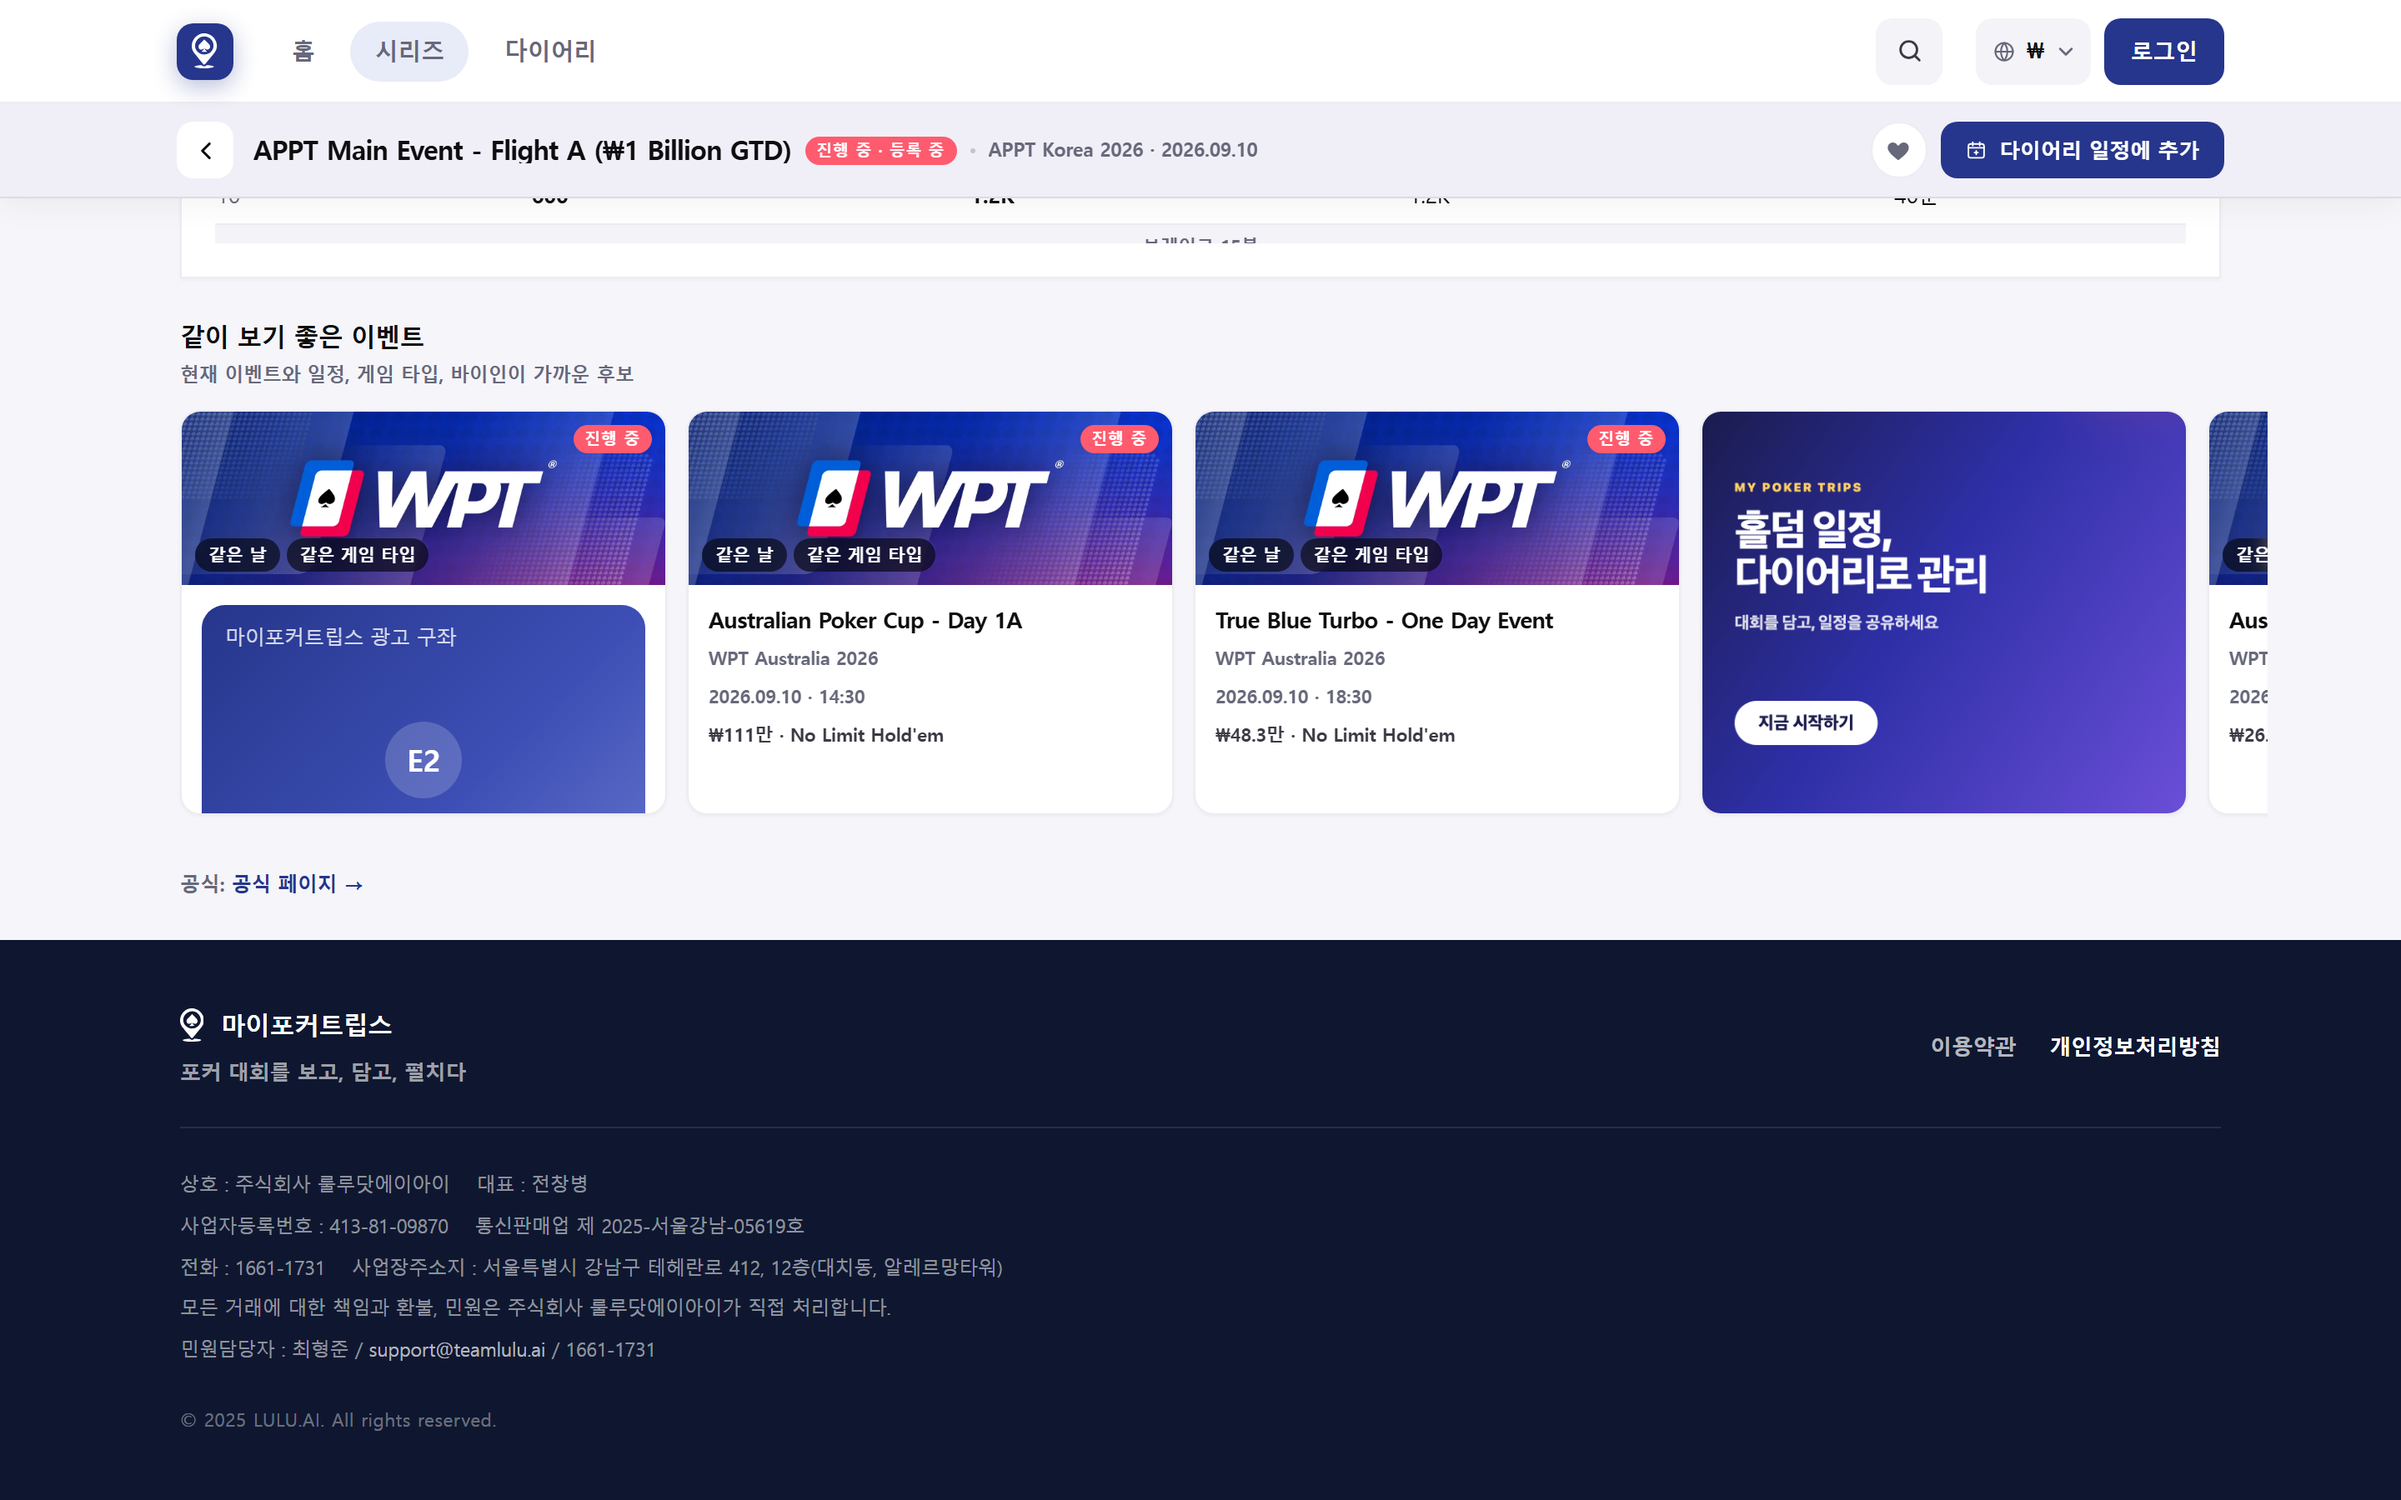
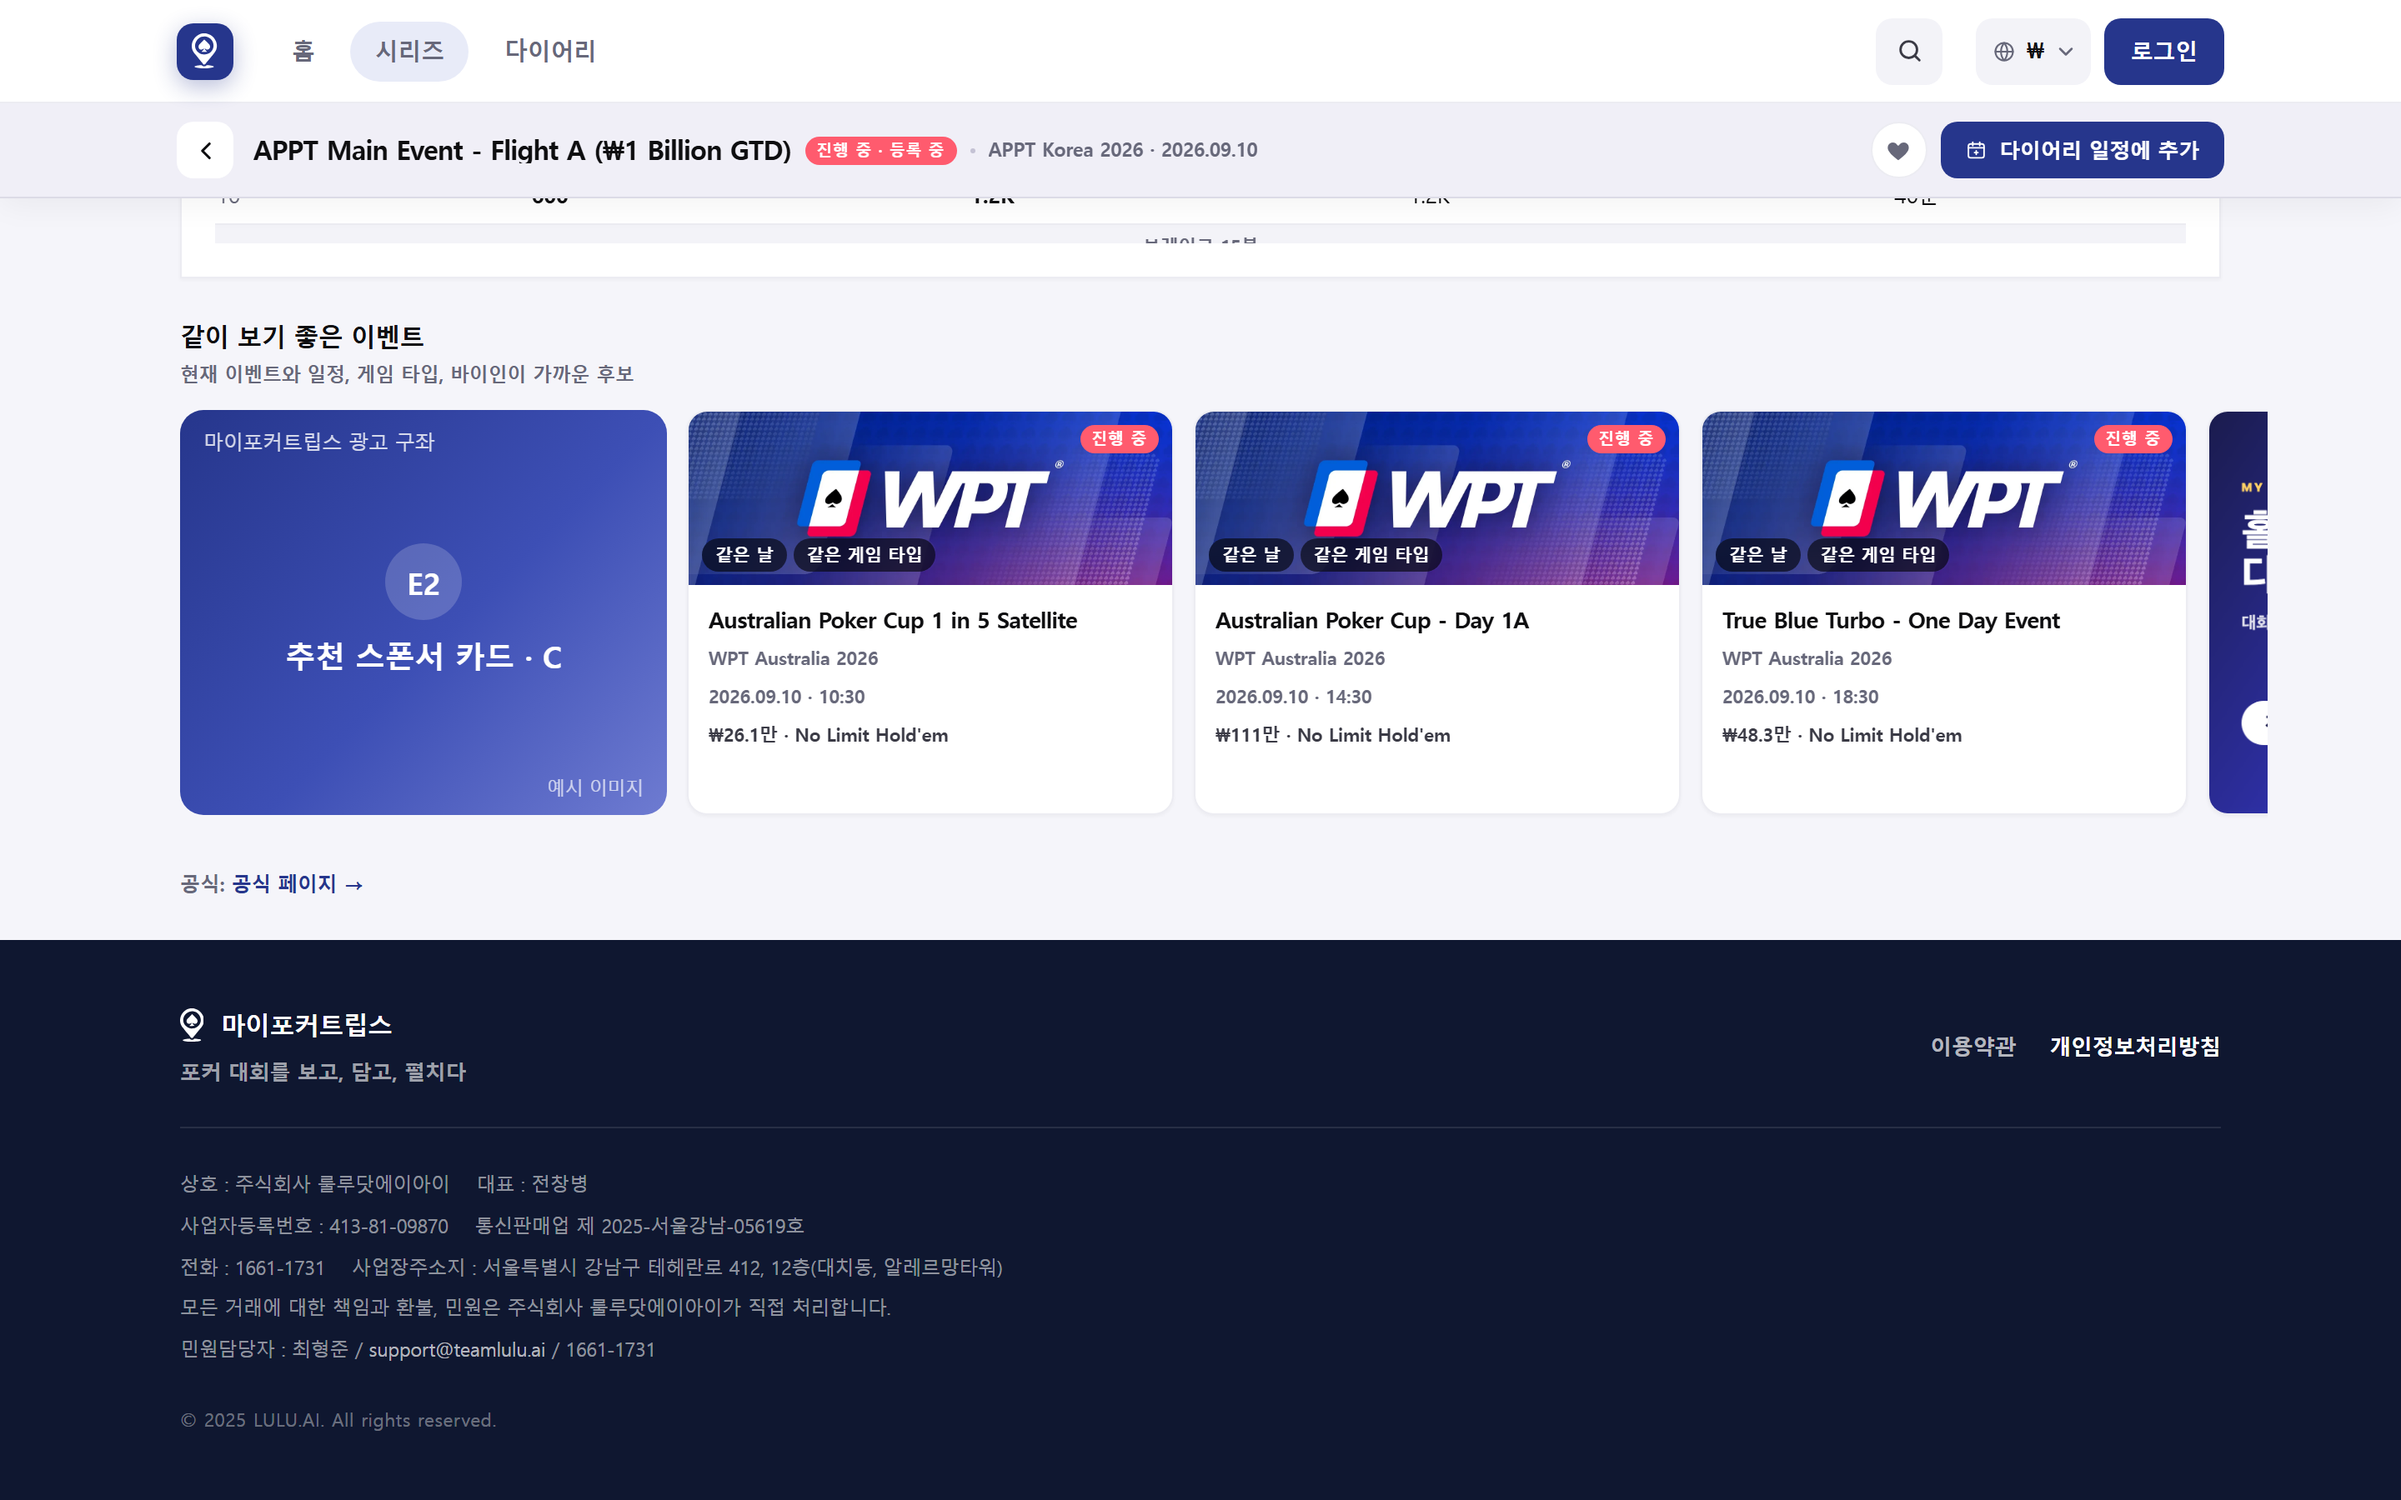
20·21p 구좌 박스 위치 보정 (S3 · S4 · E2 재캡처), 23p 5단계 표기
Claude-Session: https://claude.ai/code/session_0133toKDqgPSMfCoEuLWeeQS

diff --git a/ads.html b/ads.html
@@ -797,7 +797,7 @@ body { font-family: "Pretendard Variable", Pretendard, -apple-system, BlinkMacSy
   <div class="slide-body">
     <div class="place-row a-up d2" style="align-items:flex-start;gap:24px">
       <div class="place-item"><span class="slot-label">S2 · S3 시리즈 목록<small>카드 5개 뒤 인피드 · 좌측 레일 세로형 · PC</small></span><div class="browser" style="width:440px"><div class="bar"><i></i><i></i><i></i><b></b></div><div class="body" style="height:275px"><img src="images/mock-series-pc.png" alt="시리즈 목록 PC" style="object-position:center top"><div class="ad-highlight" data-l="S2" style="left:120px;width:287px;top:35px;height:48px"></div><div class="ad-highlight" data-l="S3" style="left:33px;width:73px;top:67px;height:147px"></div></div></div></div>
-      <div class="place-item"><span class="slot-label">S4 시리즈 상세 추천 카드<small>같이 비교할 시리즈 리스트 · PC</small></span><div class="browser" style="width:440px"><div class="bar"><i></i><i></i><i></i><b></b></div><div class="body" style="height:275px"><img src="images/mock-seriesdetail-rec-pc.png" alt="시리즈 상세 추천 PC" style="object-position:center top"><div class="ad-highlight" data-l="S4" style="left:37px;width:81px;top:67px;height:68px"></div></div></div></div>
+      <div class="place-item"><span class="slot-label">S4 시리즈 상세 추천 카드<small>같이 비교할 시리즈 리스트 · PC</small></span><div class="browser" style="width:440px"><div class="bar"><i></i><i></i><i></i><b></b></div><div class="body" style="height:275px"><img src="images/mock-seriesdetail-rec-pc.png" alt="시리즈 상세 추천 PC" style="object-position:center top"><div class="ad-highlight" data-l="S4" style="left:33px;width:89px;top:31px;height:74px"></div></div></div></div>
       <div class="place-item"><span class="slot-label">S2 시리즈 목록 인피드<small>모바일</small></span><div class="phone-frame"><div class="screen"><div class="sb"><span>20:14</span><span><i class="fa-solid fa-signal"></i> <i class="fa-solid fa-wifi"></i> <i class="fa-solid fa-battery-three-quarters"></i></span></div><div class="notch"></div><img src="images/mock-series-m.png" alt="시리즈 목록 모바일"><div class="ad-highlight" data-l="S2" style="left:8px;right:8px;top:124px;height:63px"></div></div></div></div>
     </div>
     <div class="foot-note" style="text-align:center;margin-top:16px">주황 박스 = 광고 구좌 위치 · 실제 화면 위에 구좌 자리를 예시 이미지로 표시한 것<br>소재가 없는 구좌는 실제 서비스에서 자리가 접혀 보이지 않습니다</div>
@@ -810,7 +810,7 @@ body { font-family: "Pretendard Variable", Pretendard, -apple-system, BlinkMacSy
   <div class="slide-body">
     <div class="place-row a-up d2" style="align-items:flex-start;gap:24px">
       <div class="place-item"><span class="slot-label">E1 이벤트 · 일정 상단 띠<small>필터 아래 · 두 화면 공통 · PC</small></span><div class="browser" style="width:440px"><div class="bar"><i></i><i></i><i></i><b></b></div><div class="body" style="height:275px"><img src="images/mock-events-pc.png" alt="이벤트 PC" style="object-position:center top"><div class="ad-highlight" data-l="E1" style="left:33px;width:374px;top:183px;height:62px"></div></div></div></div>
-      <div class="place-item"><span class="slot-label">E2 이벤트 상세 추천 카드<small>같이 보기 좋은 이벤트 리스트 · PC</small></span><div class="browser" style="width:440px"><div class="bar"><i></i><i></i><i></i><b></b></div><div class="body" style="height:275px"><img src="images/mock-eventdetail-pc.png" alt="이벤트 상세 PC" style="object-position:center top"><div class="ad-highlight" data-l="E2" style="left:37px;width:81px;top:77px;height:68px"></div></div></div></div>
+      <div class="place-item"><span class="slot-label">E2 이벤트 상세 추천 카드<small>같이 보기 좋은 이벤트 리스트 · PC</small></span><div class="browser" style="width:440px"><div class="bar"><i></i><i></i><i></i><b></b></div><div class="body" style="height:275px"><img src="images/mock-eventdetail-pc.png" alt="이벤트 상세 PC" style="object-position:center top"><div class="ad-highlight" data-l="E2" style="left:33px;width:89px;top:75px;height:74px"></div></div></div></div>
       <div class="place-item"><span class="slot-label">E1 이벤트 · 일정 상단 띠<small>모바일</small></span><div class="phone-frame"><div class="screen"><div class="sb"><span>20:14</span><span><i class="fa-solid fa-signal"></i> <i class="fa-solid fa-wifi"></i> <i class="fa-solid fa-battery-three-quarters"></i></span></div><div class="notch"></div><img src="images/mock-events-m.png" alt="이벤트 모바일"><div class="ad-highlight" data-l="E1" style="left:8px;right:8px;top:158px;height:63px"></div></div></div></div>
     </div>
     <div class="foot-note" style="text-align:center;margin-top:16px">주황 박스 = 광고 구좌 위치 · 실제 화면 위에 구좌 자리를 예시 이미지로 표시한 것<br>소재가 없는 구좌는 실제 서비스에서 자리가 접혀 보이지 않습니다</div>
@@ -834,7 +834,7 @@ body { font-family: "Pretendard Variable", Pretendard, -apple-system, BlinkMacSy
 <!-- ===== 19 · Divider 06 ===== -->
 <section class="slide slide-dark" id="slide-23">
   <div class="doc-tag"><span class="wm">MyPokerTrips</span><span>광고 상품 소개서</span></div>
-  <div class="divider-wrap"><div class="divider-num a-left d1">05</div><div class="a-left d2"><div class="divider-title">광고 신청</div><div class="divider-sub">문의부터 집행까지 4단계</div></div></div>
+  <div class="divider-wrap"><div class="divider-num a-left d1">05</div><div class="a-left d2"><div class="divider-title">광고 신청</div><div class="divider-sub">문의부터 집행까지 5단계</div></div></div>
   <div class="brand-mark">MyPokerTrips</div>
 </section>
 
